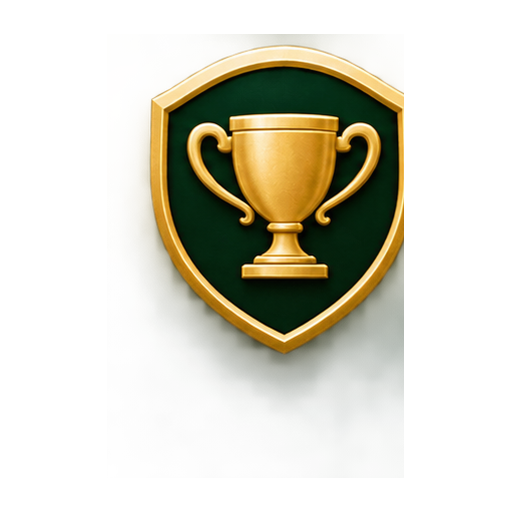
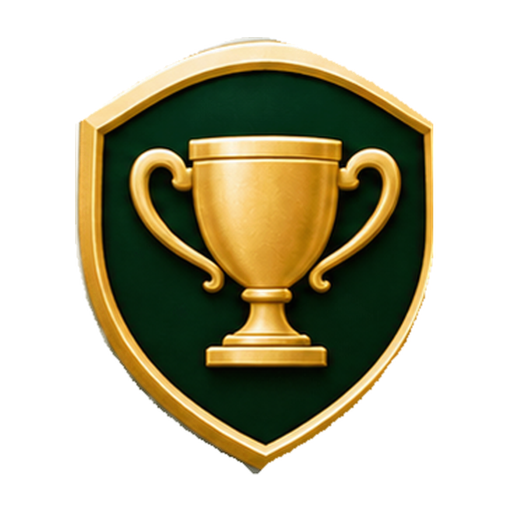
Repair all 12 WTW badge sheet exports into independent transparent shields

diff --git a/public/next/next.css b/public/next/next.css
@@ -708,3 +708,13 @@ body.wtw-next-active{background:#0d1115!important;color:#eef5f2}
 @media(max-width:1080px){.ng-profile-badgeframe img{height:80px;width:80px}}
 .ng-badge-slot.wtw-badge-missing::after,.ng-route-badge-slot.wtw-badge-missing::after,.ng-profile-badgeframe.wtw-badge-missing::after{content:'!';position:absolute;inset:0;display:grid;place-items:center;color:#f2c66a;font-size:17px;font-weight:900;background:#59412638;border:1px solid #9c733777;border-radius:4px}
 .wtw-badge-missing>img{visibility:hidden}
+
+/* Individually extracted shield assets: no backing tile, no secondary frame.
+   New RGBA art has an isolated shield normalized within 512 transparent pixels. */
+.ng-profile-badgeframe{background:transparent!important;border:0!important;box-shadow:none!important;border-radius:0!important;overflow:visible!important}
+.ng-profile-badgeframe img{width:100px!important;height:100px!important;max-width:none!important;object-fit:contain!important;filter:drop-shadow(0 3px 4px #0005)!important}
+.ng-route-badge-slot{width:48px!important;height:58px!important;background:transparent!important;border:0!important;overflow:visible!important}
+.ng-route-badge-slot>.ng-routebadge{width:62px!important;height:62px!important;max-width:none!important;object-fit:contain!important}
+.ng-badge-slot{width:36px!important;height:42px!important;overflow:visible!important;background:transparent!important;border:0!important}
+.ng-badge-slot>.ng-headicon{width:46px!important;min-width:46px!important;height:46px!important;object-fit:contain!important}
+@media(max-width:1080px){.ng-profile-badgeframe img{width:80px!important;height:80px!important}}

diff --git a/public/next/next.js b/public/next/next.js
@@ -6,7 +6,7 @@
 const $=(q,p=document)=>p.querySelector(q), $$=(q,p=document)=>[...p.querySelectorAll(q)];
 const safe=v=>String(v??'').replace(/[&<>"']/g,c=>({'&':'&amp;','<':'&lt;','>':'&gt;','"':'&quot;',"'":'&#39;'}[c]));
 const approvedBadgeKinds=new Set(["horse","people","farm_stable","track","pedigree","career_record","achievements","reputation","meet_schedule","major_races","connections","history"]);
-const badge=kind=>`/assets/profile-badges/v2/wtw_badge_${approvedBadgeKinds.has(kind)?kind:'history'}.png`;
+const badge=kind=>`/assets/profile-badges/v2/wtw_badge_${approvedBadgeKinds.has(kind)?kind:'history'}.png?shield=20261110`;
 const root=document.createElement('div');root.id='wtwNextgen';root.setAttribute('aria-label','Wire to Wire game interface');
 const APP={section:'Office',page:'Office',custom:'',filter:'All',msgPage:0,focus:'',outTab:0,detailTab:'Overview',routeId:'',ready:false,activeCase:'powerline',paintQueued:false};
 const tabmap={Office:['Overview','Messages','Decisions','Calendar','News','Reports','Career'],Stable:['Overview','Horses','Training','Health','Race Plans','Barns'],Racing:['Overview','Calendar','Entries','Results','Stakes','Race Planning'],Breeding:['Overview','Stallions','Broodmares','Foals','Pedigrees','Stud Farms'],Sales:['Overview','Auctions','Catalogs','Watchlist','Private Offers'],Personnel:['Overview','Trainers','Jockeys','Owners','Staff'],Facilities:['Overview','Barns','Training Centers','Farms'],Finances:['Overview','Cash Flow','Operating Costs','Budgets'],World:['Overview','Tracks','Meets','Major Races','News','History']};

diff --git a/docs/qa/WTW_BADGE_ISOLATION_REPAIR_2026-11-10.md b/docs/qa/WTW_BADGE_ISOLATION_REPAIR_2026-11-10.md
@@ -1,0 +1,17 @@
+# WTW badge repair — isolated shields only
+Date: 2026-11-10
+The original v2 PNG files were *individual filenames* but NOT properly separated images. Several contain dark rectangular sheet backing, pieces of neighboring gold shields, and faint bleed-through. Existing source checks merely verified the bytes and had not caught the visual defects.
+
+## Repair
+- All 12 individual PNGs were repaired by isolating the center gold-and-green shield silhouette from the original file, masking everything outside it to alpha=0, and normalizing each on its own 512×512 fully transparent canvas.
+- Approved interior symbols and distinctive gold/forest colorways were retained; no alternate artwork invented.
+- Exactly one connected nontransparent shield region per output; no neighboring image fragments or background rectangle.
+- The updated PNG files overwrite the previous corrupt v2 filenames for compatibility with all existing game routes. Previous originals remain recoverable in Git history at commit `7f1cc35c19f593c351507710d932d7dd383c44ea`.
+- Single existing `/next/next.css` removes the separate dark/bordered badge container. Active JS requests use `?shield=20261110` to bypass stale browser caches.
+- The original v2 approval described intended shield designs, not permission to include background spill. Repaired assets are user-requested derivatives, with both old and new hashes recorded in the repository manifest.
+- PNG integrity/asset hash check updated to the corrected binaries. Canonical game state, routes, 1999 sources, logo, and /archive unchanged.
+
+## Visual QA
+- Rendered contact sheet on a visible checkerboard confirms 12 independent single-shield alpha cutouts.
+- Automated local PNG testing verified each is 512×512 RGBA with one substantial visible component and transparent corner pixels.
+- Final acceptance requires confirming Cloudflare serves corrected images in Horse and Race profile headers; GitHub passing tests alone do not prove CDN availability.
